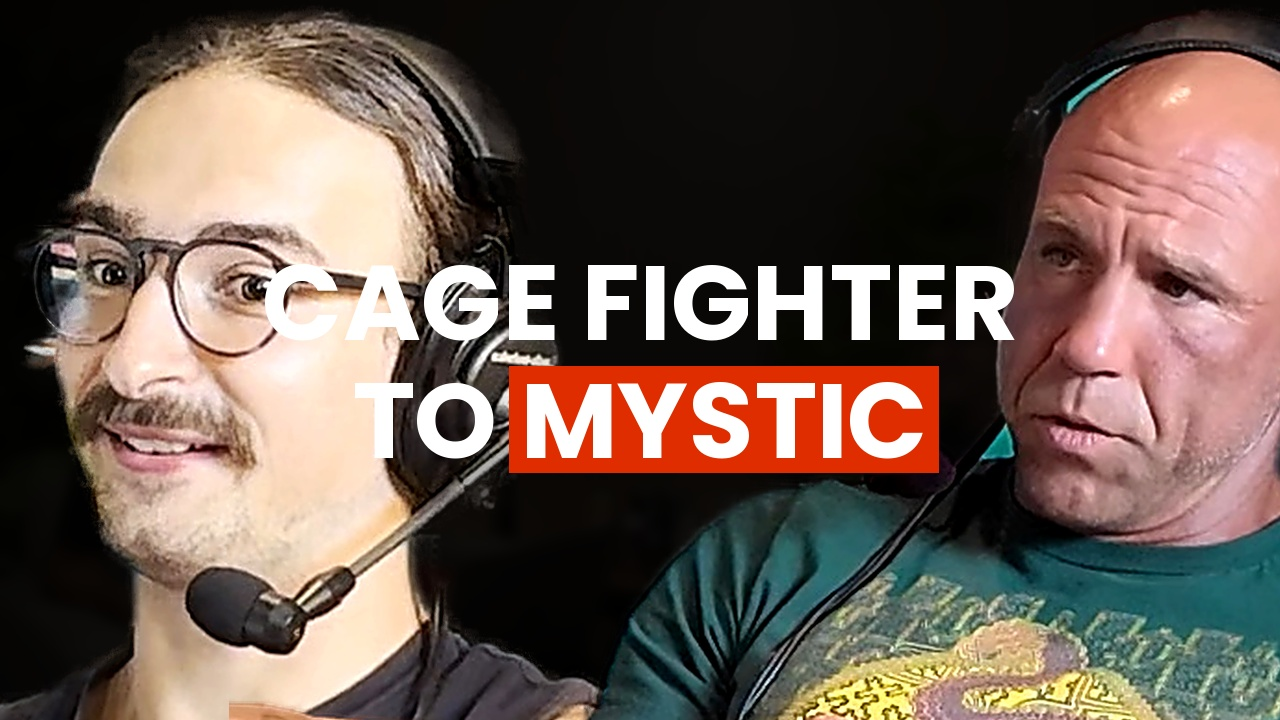
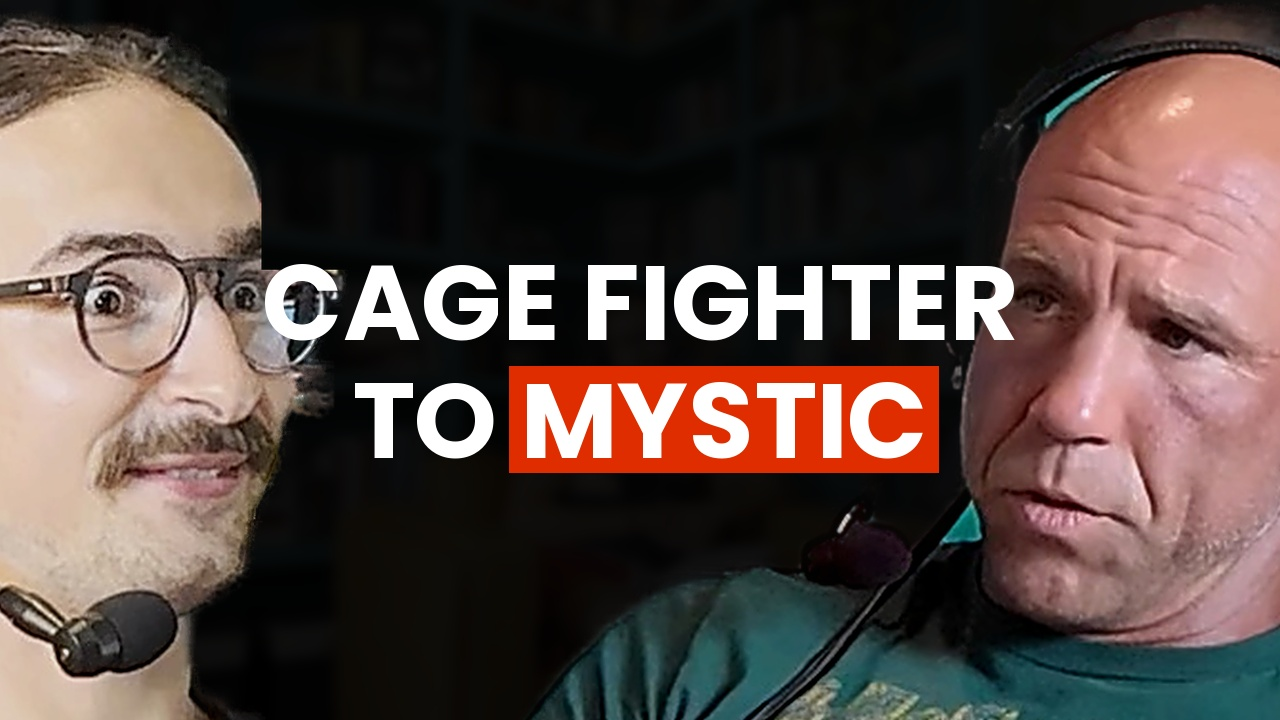
Kingsbury korrigiert: nicht spiegeln, Kyle groesser, Belichtung angeglichen
Vier Fehler, alle berechtigt beanstandet.

Gespiegelt und damit erst weggedreht. Ueber 367 Bilder gemessen ist seine
Gier immer positiv - Minimum 0,03, Median 0,44, Maximum 0,77 - er sitzt
durchgehend zum Gast gedreht. Spiegeln war genau falsch herum. Dazu hatte
ich ein Bild mit Gier 0,31 genommen, also unter dem Median und damit
vergleichsweise frontal. Jetzt 04222.64 mit Gier 0,51, ungespiegelt.

Ueberbelichtet: sein Gesicht lag bei mittlerer Helligkeit 167 mit 41 Prozent
Pixeln ueber 230, Kingsburys bei 141 mit 28. kopf_setzen nimmt Helligkeit
und Kontrast jetzt je Kopf. Danach 138 gegen 130.

Groessenverhaeltnis umgedreht: Kingsbury steht jetzt bei Pupillenabstand 163
gegen 129, Verhaeltnis 1,27 zu seinen Gunsten, und sein Rumpf ist weitgehend
aus dem Bild.

Dazu zwei Unsauberkeiten: rembg hatte ein Stueck Buecherregal neben der
Schlaefe stehen gelassen, bei 420 px Vorschau nicht zu sehen, und der
Hintergrund stammte noch aus dem Aaronson-Studio.

diff --git a/video/thumbnail_bau.py b/video/thumbnail_bau.py
@@ -131,6 +131,10 @@ def kopf_setzen(leinwand, png, ziel, kontrast=1.14, helligkeit=1.06,
         oben = int(np.nonzero(al.sum(1) > 6)[0][0])
         ziel = dict(ziel, augen_y=ziel['scheitel_y'] + (ay - oben) * k_vor)
     im = Image.open(png).convert('RGBA')
+    # Je Kopf einstellbar: die beiden Kameras belichten verschieden, und ein
+    # ueberbelichtetes Gesicht neben einem dunklen faellt sofort auf.
+    kontrast = ziel.get('kontrast', kontrast)
+    helligkeit = ziel.get('helligkeit', helligkeit)
     if kontrast != 1.0 or helligkeit != 1.0:
         farbe, maske = im.convert('RGB'), im.getchannel('A')
         farbe = ImageEnhance.Contrast(farbe).enhance(kontrast)

diff --git a/video/thumbnails.md b/video/thumbnails.md
@@ -326,6 +326,49 @@ fertigen Thumbnail `RG-K0fIA2-w` geschnitten. Dort steht er schon vor
 der Bildrand liefert zusätzlich eine gerade Schnittkante. **Immer aus dem
 Rohmaterial freistellen, wo die Person vor einem belichteten Raum sitzt.**
 
+### Vor dem Spiegeln die Kopfdrehung messen
+
+**Am 21.10. habe ich ihn gespiegelt und damit erst weggedreht.** Seine
+Reaktion: *„irgendwie hast du jetzt mein Gesicht einfach umgedreht. Jetzt
+gucken beide [weg]."*
+
+Nachgemessen über alle 367 Bilder seiner Kamera: die Gier (Nase gegen
+Augenmitte, auf Pupillenabstand normiert) ist **immer positiv** — Minimum
++0,03, Median **+0,44**, Maximum +0,77. Er ist in dieser Aufnahme
+durchgehend nach Bild-rechts gedreht, also ohnehin zum Gast hin. **Spiegeln
+war genau falsch herum.**
+
+**Regel: erst die Gier über viele Bilder messen, dann entscheiden.** Ist das
+Vorzeichen schon richtig, wird nicht gespiegelt.
+
+**Und: nach Gier auswählen, nicht nur nach Größe.** Das Bild, das ich zuerst
+nahm, hatte Gier +0,31 — unter dem Median, also vergleichsweise frontal, und
+genau deshalb sah es aus, als schaue er in die Kamera. Es gibt einen
+Zielkonflikt: **je stärker gedreht, desto kleiner das Gesicht.** Bei
+Gier ≥ 0,50 und Pupillenabstand ≥ 72 gab es **kein einziges** Bild; bei
+Gier ≥ 0,45 und ≥ 68 waren es 52.
+
+### Freisteller am Kopf in voller Auflösung prüfen
+
+Die Prüfung vor Grün war richtig, aber zu klein: bei 420 px Vorschau war
+nicht zu sehen, dass rembg **ein Stück Bücherregal neben seiner Schläfe
+stehen gelassen** hatte. Im fertigen Thumbnail war es ein auffälliger
+Farbfleck. **Kopfbereich zusätzlich in Originalgröße ansehen.**
+
+### Belichtung der beiden Köpfe angleichen
+
+Zwei Kameras belichten verschieden. Gemessen im fertigen Bild: sein Gesicht
+lag bei mittlerer Helligkeit **167 mit 41 % Pixeln über 230** (ausgefressen),
+Kingsburys bei 141 mit 28 %. `kopf_setzen()` nimmt `helligkeit` und
+`kontrast` jetzt **je Kopf** aus dem Ziel-Wörterbuch. Danach: 138 gegen 130,
+beide unter 5 % über 230.
+
+### Hintergrund aus dem richtigen Dreh
+
+Der dunkle Fleck neben seinem Kopf war anfangs der **Hintergrund aus dem
+Aaronson-Studio**, den ich gedankenlos weiterverwendet hatte. Pro Folge den
+Hintergrund aus dieser Aufnahme nehmen.
+
 ### Wenn beide Kameras in dieselbe Richtung zeigen
 
 In der Kingsbury-Aufnahme schauen **beide** auf ihrer jeweiligen Kamera nach

diff --git a/lernen/thumbnails.md b/lernen/thumbnails.md
@@ -5,6 +5,35 @@ oben. Nur nachgemessene Befunde mit Zahl oder wörtlichem Zitat.
 
 ---
 
+## 21.10.2026 — abends, zweite Runde
+
+- **Kopfdrehung messen, bevor man spiegelt.** Ich spiegelte ihn und drehte
+  ihn damit erst vom Gast weg. Über 367 Bilder gemessen ist seine Gier (Nase
+  gegen Augenmitte, auf Pupillenabstand normiert) **immer positiv**: min
+  +0,03, Median **+0,44**, max +0,77. Er sitzt durchgehend zum Gast gedreht.
+  **Erst messen, dann spiegeln — und meist gar nicht.**
+  → betrifft: content-*, cinematic
+
+- **Nach Drehung auswählen, nicht nur nach Größe — es gibt einen
+  Zielkonflikt.** Je stärker jemand zum Gegenüber gedreht ist, desto kleiner
+  wird sein Gesicht im Bild. In derselben Aufnahme: Gier ≥ 0,50 **und**
+  Pupillenabstand ≥ 72 → **kein einziges Bild**. Gier ≥ 0,45 und ≥ 68 → 52.
+  → betrifft: content-*, cinematic
+
+- **Freisteller zusätzlich am Kopf in Originalgröße prüfen.** Die Prüfung vor
+  Grün bei 420 px Vorschau zeigte nicht, dass rembg ein Stück Bücherregal
+  neben der Schläfe stehen gelassen hatte. Im Thumbnail war es ein
+  auffälliger Farbfleck.
+  → betrifft: alle, die freistellen
+
+- **Belichtung zwischen zwei Köpfen angleichen und nachmessen.** Zwei Kameras
+  belichten verschieden: ein Gesicht lag bei mittlerer Helligkeit 167 mit
+  **41 % Pixeln über 230** (ausgefressen), das andere bei 141 mit 28 %.
+  Messbar und korrigierbar je Kopf. Danach 138 gegen 130.
+  → betrifft: content-*, cinematic
+
+---
+
 ## 21.10.2026 — abends
 
 ### Korrektur an den Copy-Regeln des Head of Content
